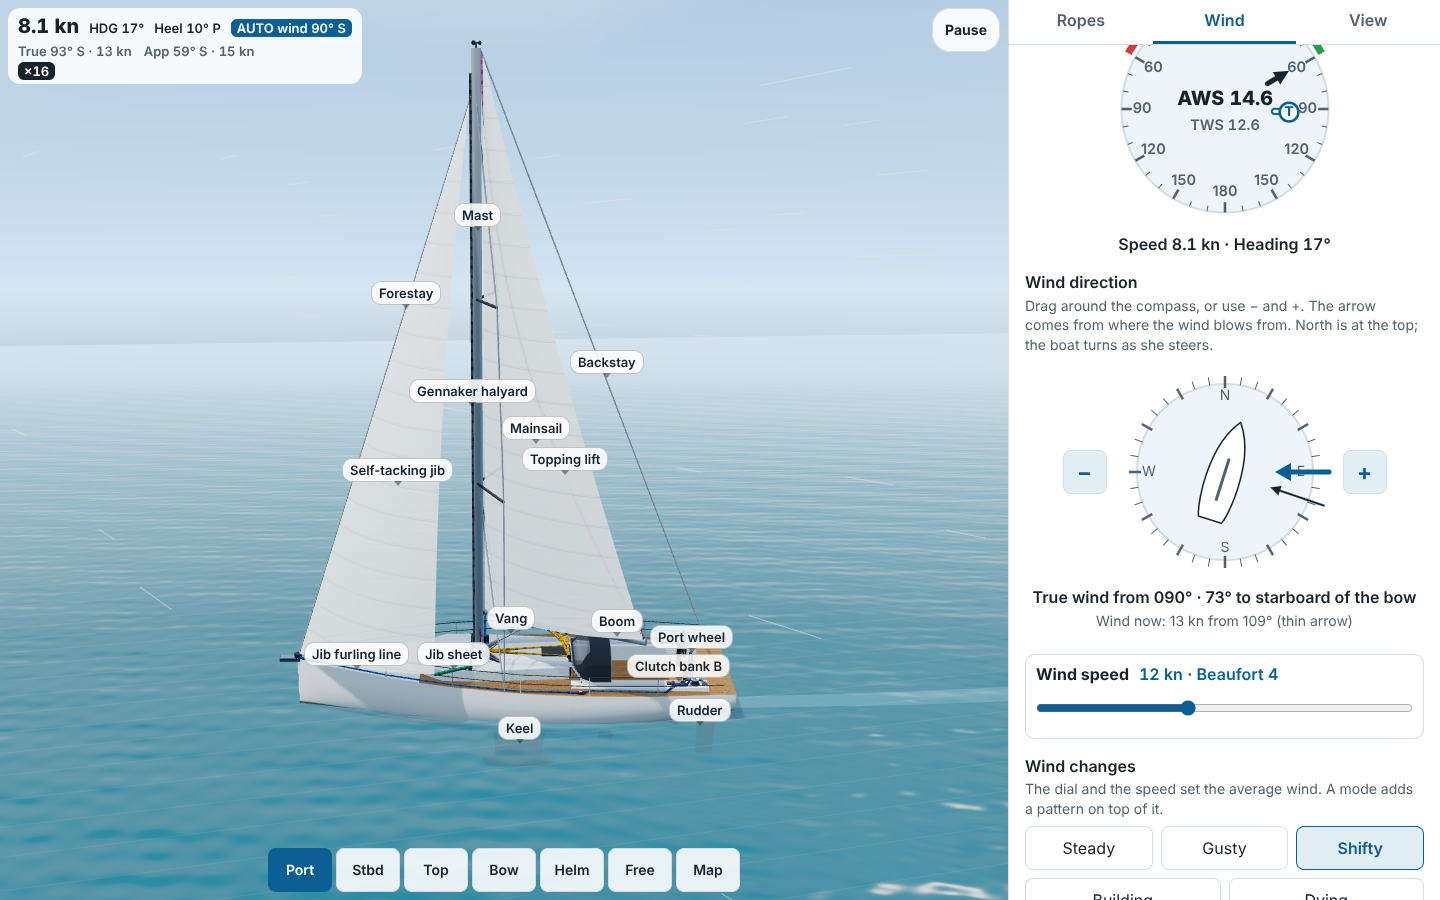
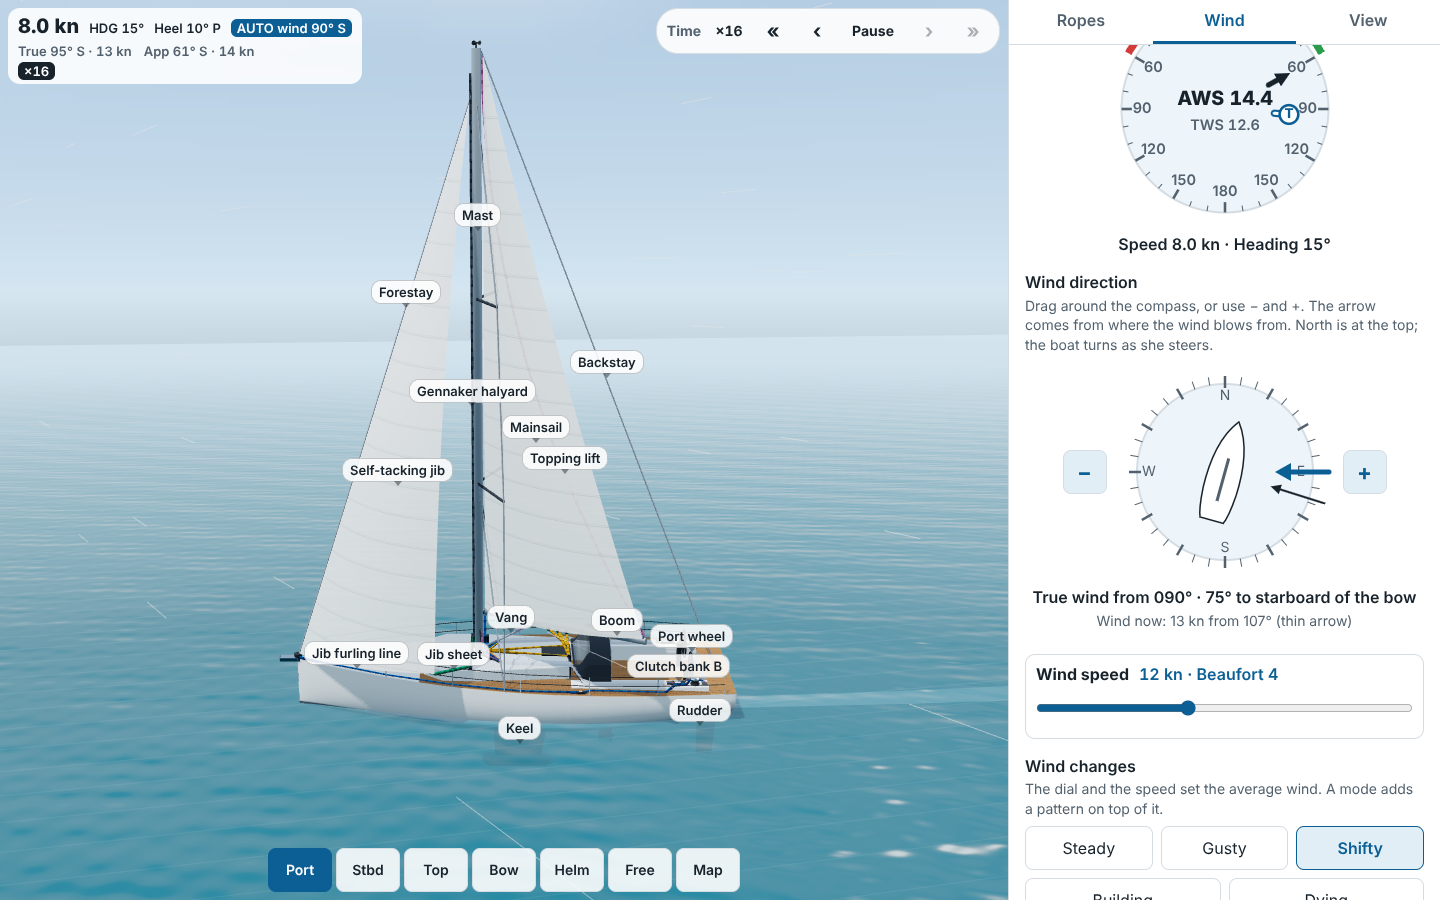
M10: time bar buttons 44 px wide (touch target audit); screenshot set with the time bar

diff --git a/src/style.css b/src/style.css
@@ -1200,7 +1200,7 @@ html[data-layout='stacked'] .rope-strip:not(.is-empty) {
   display: flex;
   flex: 0 0 auto;
   align-items: center;
-  gap: 2px;
+  gap: 0;
   margin-left: auto;
 }
 
@@ -1235,6 +1235,7 @@ html[data-layout='stacked'] .rope-strip:not(.is-empty) {
 }
 
 .time-label {
+  min-width: var(--touch);
   padding: 0 6px;
   color: var(--muted);
 }
@@ -1244,13 +1245,13 @@ html[data-layout='stacked'] .rope-strip:not(.is-empty) {
 }
 
 .time-status {
-  min-width: 40px;
+  min-width: var(--touch);
   padding: 0 4px;
   font-variant-numeric: tabular-nums;
 }
 
 .time-button {
-  min-width: 34px;
+  min-width: var(--touch);
   padding: 0 4px;
   font-size: 20px;
   line-height: 1;
